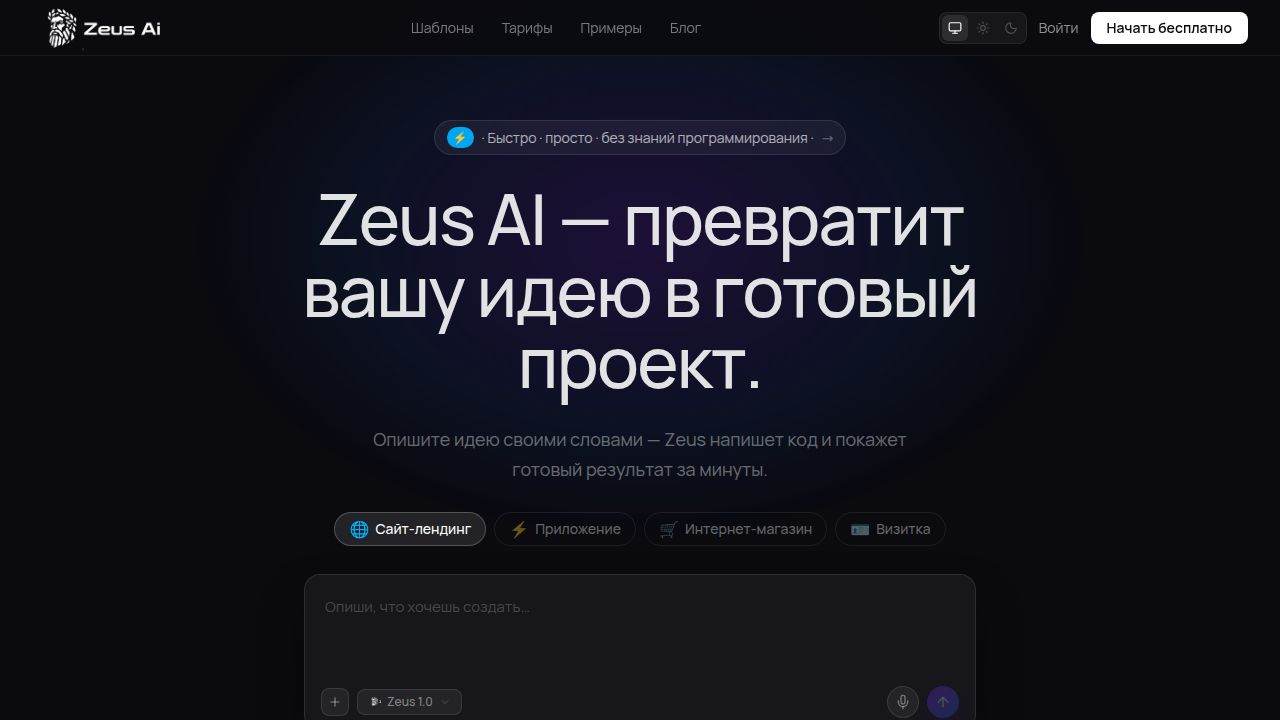
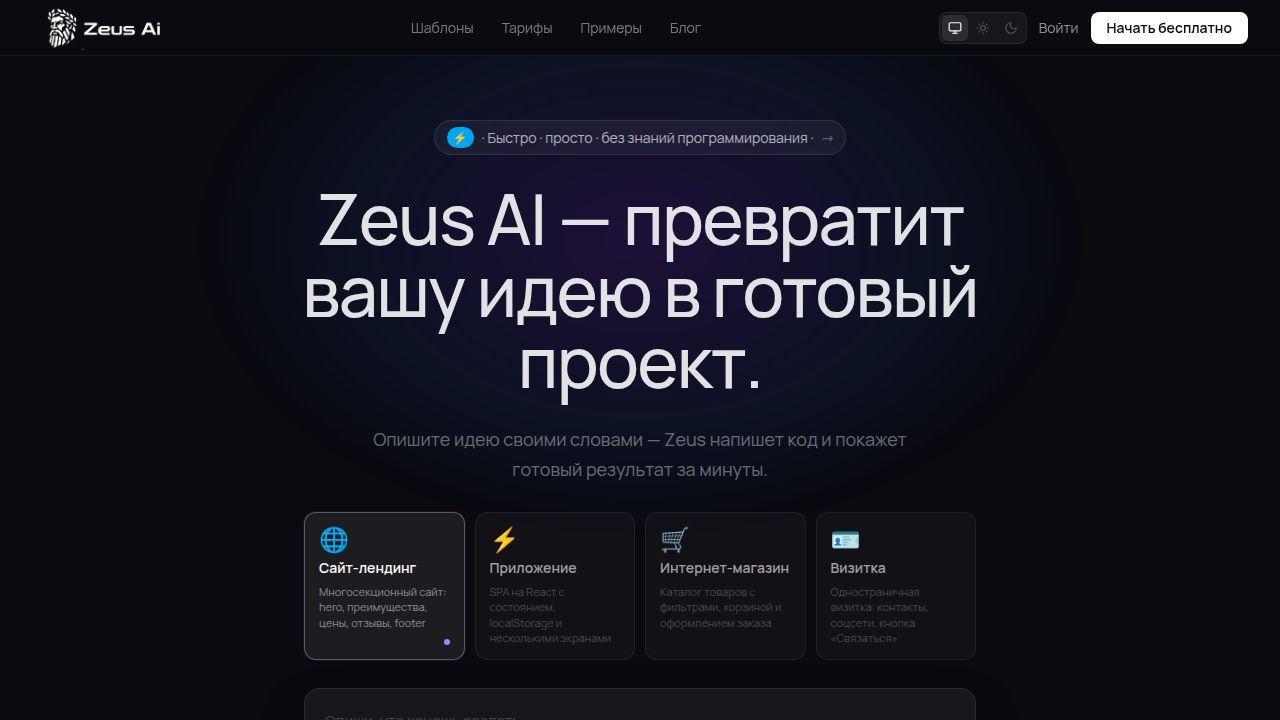
Add visual project type selection cards to the main page
Replace pill-style tab buttons with a grid of interactive cards for selecting project types, including icons, labels, and descriptions.

Replit-Commit-Author: Agent
Replit-Commit-Session-Id: 55a3cc28-d9eb-40c8-9a88-6888060bf91f
Replit-Commit-Checkpoint-Type: full_checkpoint
Replit-Commit-Event-Id: b241ca29-ca54-45fa-be30-c2336f6a929c
Replit-Commit-Screenshot-Url: https://storage.googleapis.com/screenshot-production-us-central1/7b45bd37-46d4-45ed-a23c-2d71ea9b61e2/55a3cc28-d9eb-40c8-9a88-6888060bf91f/tn1tpgM
Replit-Helium-Checkpoint-Created: true

diff --git a/artifacts/vibe-coding/src/pages/landing.tsx b/artifacts/vibe-coding/src/pages/landing.tsx
@@ -5,11 +5,11 @@ import { useSpeechRecognition } from "@/hooks/use-speech-recognition";
 
 const NAV_LINKS = ["Шаблоны", "Тарифы", "Примеры", "Блог"];
 
-const TABS: Array<{ icon: string; label: string; type: "landing" | "app" | "shop" | "card" }> = [
-  { icon: "🌐", label: "Сайт-лендинг", type: "landing" },
-  { icon: "⚡", label: "Приложение",    type: "app"     },
-  { icon: "🛒", label: "Интернет-магазин", type: "shop" },
-  { icon: "🪪", label: "Визитка",       type: "card"    },
+const TABS: Array<{ icon: string; label: string; type: "landing" | "app" | "shop" | "card"; desc: string }> = [
+  { icon: "🌐", label: "Сайт-лендинг",    type: "landing", desc: "Многосекционный сайт: hero, преимущества, цены, отзывы, footer" },
+  { icon: "⚡", label: "Приложение",       type: "app",     desc: "SPA на React с состоянием, localStorage и несколькими экранами" },
+  { icon: "🛒", label: "Интернет-магазин", type: "shop",    desc: "Каталог товаров с фильтрами, корзиной и оформлением заказа" },
+  { icon: "🪪", label: "Визитка",          type: "card",    desc: "Одностраничная визитка: контакты, соцсети, кнопка «Связаться»" },
 ];
 
 const CHIP_PROMPTS = [
@@ -193,20 +193,36 @@ export default function Landing() {
             Опишите идею своими словами — Zeus напишет код и покажет готовый результат за минуты.
           </p>
 
-          {/* TABS */}
-          <div className="flex flex-wrap justify-center gap-2">
+          {/* TYPE CARDS */}
+          <div className="grid grid-cols-2 sm:grid-cols-4 gap-2.5 w-full max-w-2xl">
             {TABS.map((tab, i) => (
               <button
-                key={tab.label}
+                key={tab.type}
                 onClick={() => setActiveTab(i)}
-                className={`inline-flex items-center gap-1.5 px-3.5 py-1.5 rounded-full text-sm font-medium border transition-all ${
+                className={`group flex flex-col items-start gap-2 rounded-xl border p-3.5 text-left transition-all duration-200 ${
                   activeTab === i
-                    ? "bg-white/[0.10] border-white/[0.22] text-white"
-                    : "bg-transparent border-white/[0.08] text-white/38 hover:border-white/[0.15] hover:text-white/58"
+                    ? "bg-white/[0.08] border-white/[0.28] shadow-[0_0_0_1px_rgba(255,255,255,0.10)] shadow-violet-500/10"
+                    : "bg-white/[0.03] border-white/[0.07] hover:bg-white/[0.06] hover:border-white/[0.16]"
                 }`}
               >
-                <span className="text-base leading-none">{tab.icon}</span>
-                {tab.label}
+                <span className="text-2xl leading-none">{tab.icon}</span>
+                <span
+                  className={`text-sm font-semibold leading-tight transition-colors ${
+                    activeTab === i ? "text-white" : "text-white/60 group-hover:text-white/80"
+                  }`}
+                >
+                  {tab.label}
+                </span>
+                <span
+                  className={`text-[11px] leading-snug transition-colors ${
+                    activeTab === i ? "text-white/50" : "text-white/25 group-hover:text-white/38"
+                  }`}
+                >
+                  {tab.desc}
+                </span>
+                {activeTab === i && (
+                  <span className="mt-auto self-end w-1.5 h-1.5 rounded-full bg-violet-400 shrink-0" />
+                )}
               </button>
             ))}
           </div>